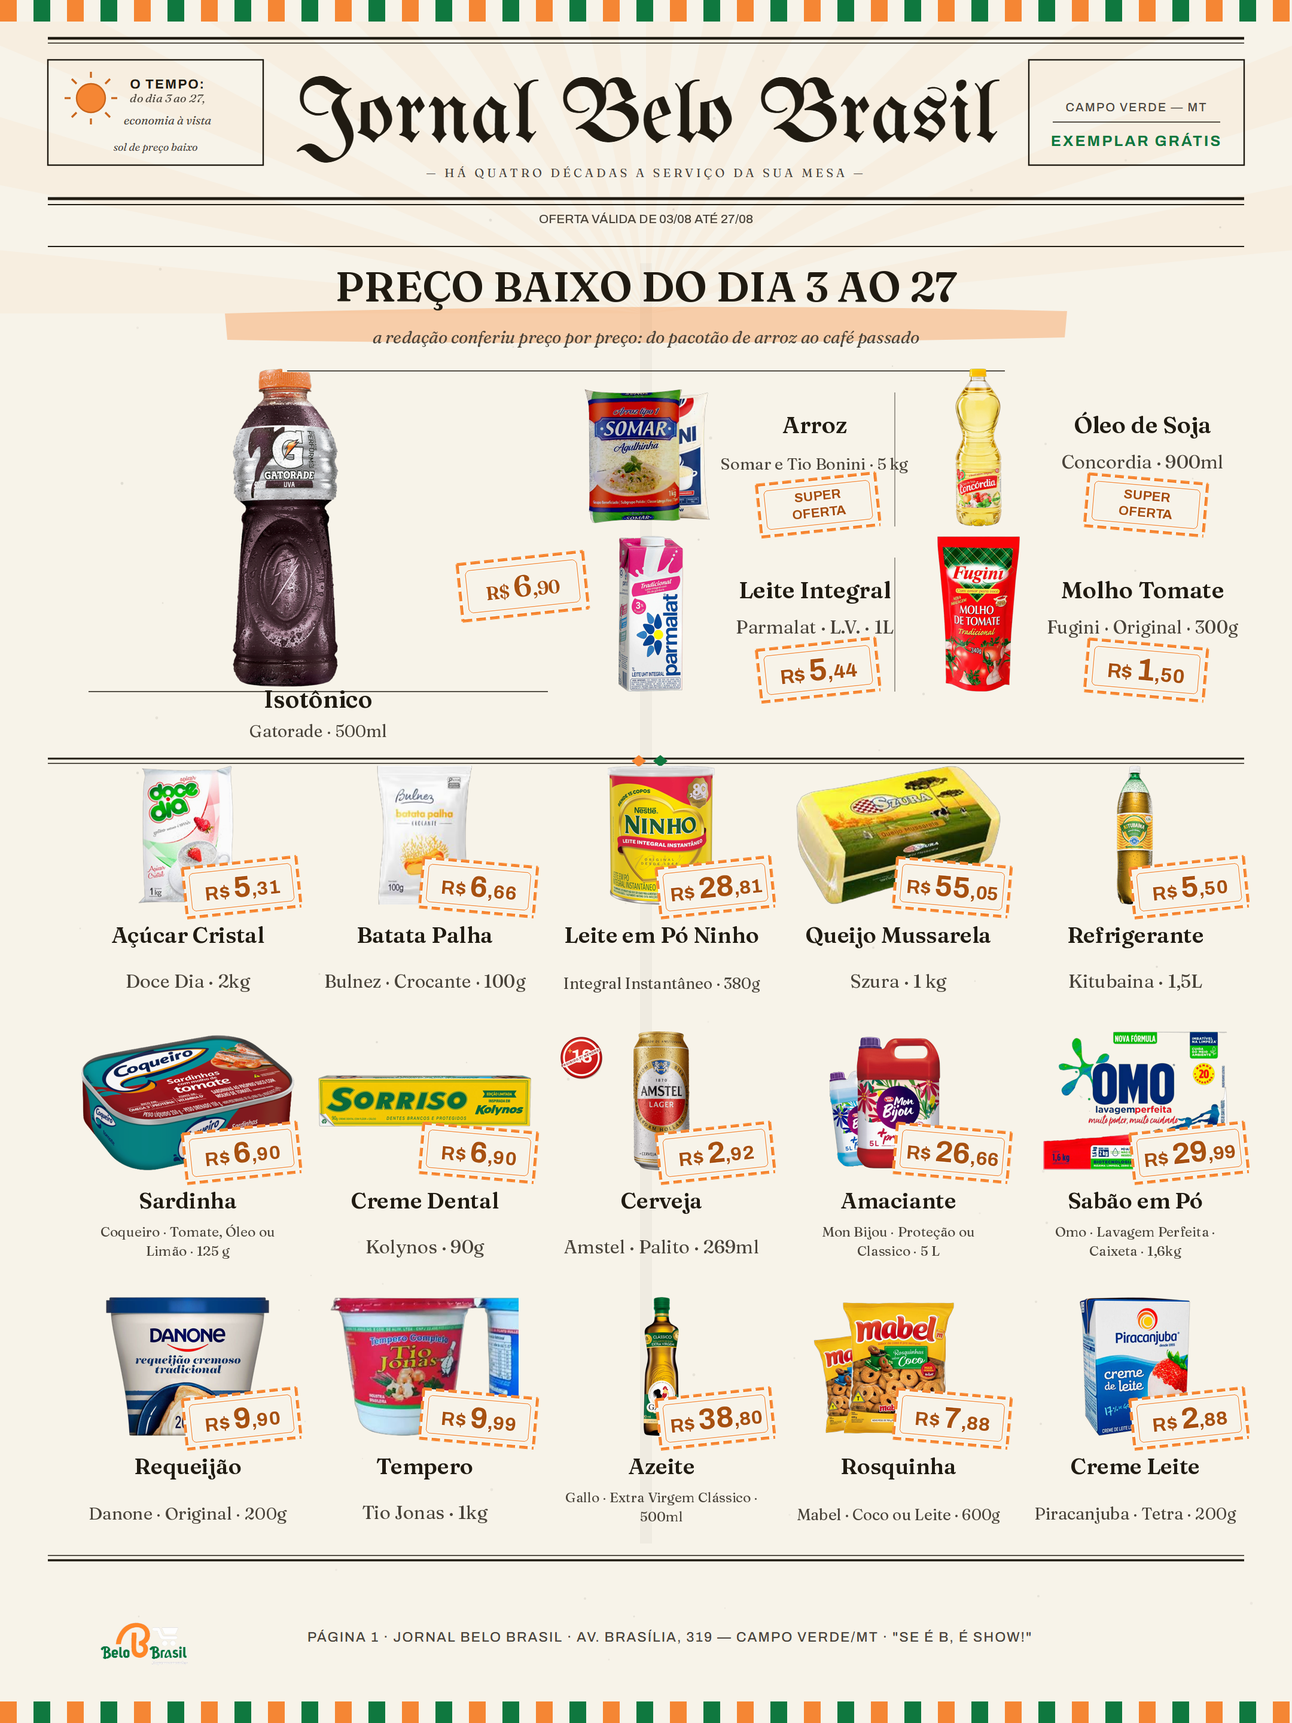
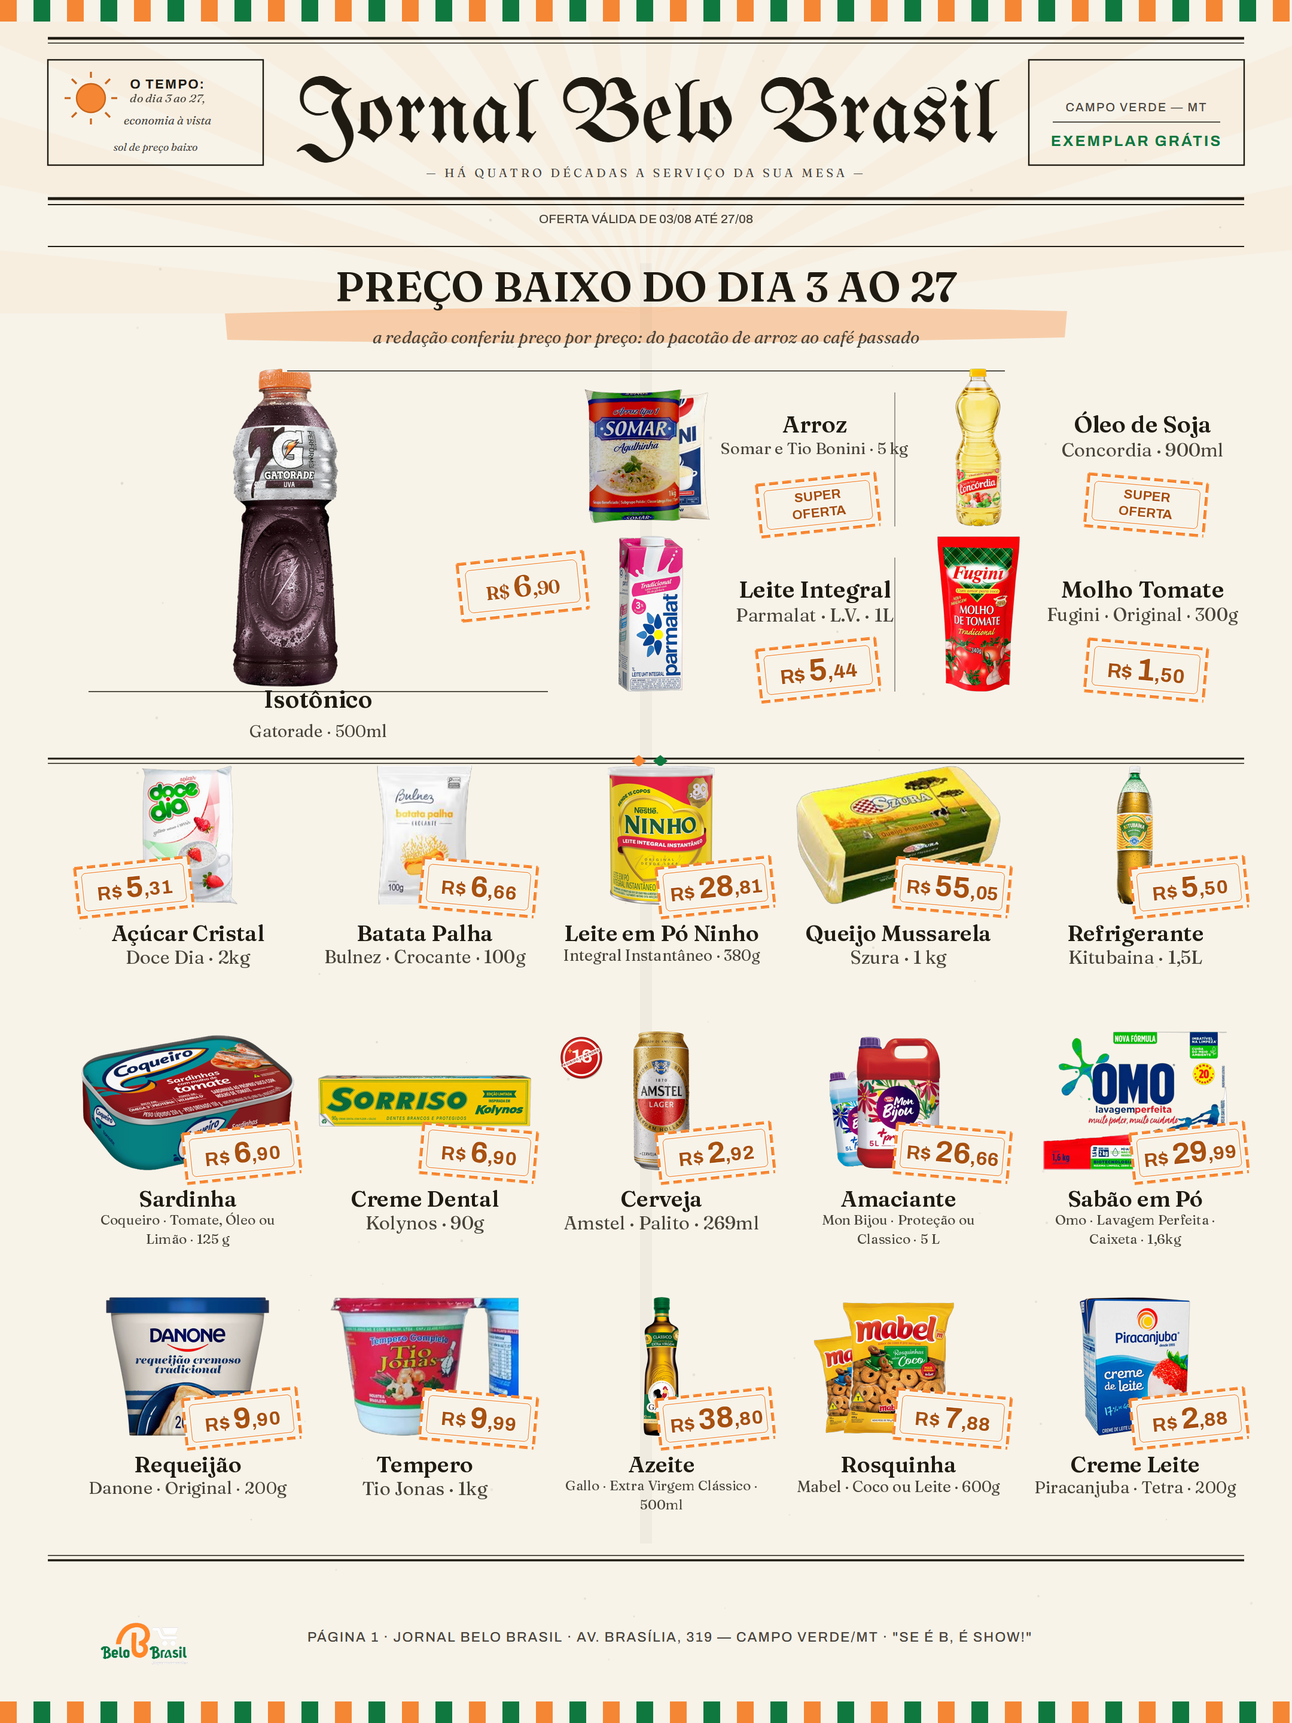
F13 ORDEM UNDEVICESIMUS (04/08): A HARMONIA DO BLOCO DE TEXTO - o dono disse 'AGORA SIM TA QUASE' (a 1a vez nesta engenharia) e apontou o que sobrou: 'os textos das descricoes parecem jogados'. ANTES DE TUDO, O PARAGRAFO-0 DO ARQUITETO: ele se corrigiu com todas as letras - o item zero da DUODEVICES

diff --git a/app/rendering/encartes.py b/app/rendering/encartes.py
@@ -109,24 +109,29 @@ def _img(x, y, w, h, rot=0.0, flex=False) -> Regiao:
 
 
 def _nome(x, y, w, h, *, fonte, rot=0.0, alin=Alinhamento.CENTRO,
-          tam=48.0, tam_min=None, cor="#000000") -> Regiao:
+          tam=48.0, tam_min=None, cor="#000000",
+          alin_v=AlinhamentoV.BASE) -> Regiao:
     # F13-BIS/T5: nas células estreitas dos encartes, hifenizar é
     # PROIBIDO — o corpo cede ("CERVEJA ITAPA-VA" virou prova).
     # F13-OCTAVUS/C1 + NONUS/N2: o corpo tem PISO com FAIXA — por
     # padrão o corpo cede no máximo UM degrau (tam−3); abaixo disso a
     # precedência do N1 encurta o nome pelo descritor (nunca encolhe a
     # ilegível, nunca elipsa sem avisar). O 6.0 inerte morreu aqui.
+    # UNDEVICESIMUS/H1: o BASE dentro de caixa folgada era uma das
+    # duas folgas flutuantes do "jogado" — as células de bloco único
+    # pedem TOPO explícito.
     return Regiao(TipoRegiao.NOME, _r(x, y, w, h), nome="Nome",
                   fonte=fonte, alinhamento=alin, cor=cor,
                   tamanho_max_pt=tam,
                   tamanho_min_pt=(tam_min if tam_min is not None
                                   else min(tam, max(tam - 3.0, 6.5))),
                   sem_hifen=True,
-                  alinhamento_v=AlinhamentoV.BASE, rotacao_graus=rot)
+                  alinhamento_v=alin_v, rotacao_graus=rot)
 
 
 def _sub(x, y, w, h, *, fonte, rot=0.0, alin=Alinhamento.CENTRO,
-         tam=48.0, tam_min=None, cor="#000000") -> Regiao:
+         tam=48.0, tam_min=None, cor="#000000",
+         alin_v=AlinhamentoV.BASE) -> Regiao:
     # F13-BIS/T2: a linha de DESCRITOR do modelo (região SUBTITULO).
     # F13-NONUS/N2: com piso — o descritor é 1 linha curta; melhor
     # manter o corpo e ceder meio degrau (tam−1,5) do que virar poeira
@@ -136,7 +141,7 @@ def _sub(x, y, w, h, *, fonte, rot=0.0, alin=Alinhamento.CENTRO,
                   tamanho_min_pt=(tam_min if tam_min is not None
                                   else min(tam, max(tam - 1.5, 6.5))),
                   sem_hifen=True,
-                  alinhamento_v=AlinhamentoV.BASE, rotacao_graus=rot)
+                  alinhamento_v=alin_v, rotacao_graus=rot)
 
 
 def _preco(x, y, w, h, *, fonte, rot=0.0, forma=None, forma_cor=None,
@@ -745,17 +750,23 @@ def _jornal_linha(pref: str, slots: list, y: float, n: int,
                    forma=FormaPreco.CARIMBO, forma_cor=_J_LAR,
                    cor=_J_LARD, tam=23.0, tam_cent=14.5,
                    centavos_na_base=True),
-            # v4 (a LEI do dono): NENHUMA informação é comida — nome e
-            # descritor abaixo, com o respiro do carimbo rotacionado
-            _nome(x + 8, y + 108, 170, 28, fonte=_F_FRAUNCES,
-                  tam=14.0, cor=_J_INK),
-            # ERRATA §13.3: o descritor deixa o ITÁLICO (a serifa
-            # itálica não segura tinta abaixo de 12 pt no papel) e
-            # sobe de corpo — max 11,5 / piso 10,5 (o 8,5 era o que
-            # deixava o descritor virar poeira); o piso DURO do
-            # compositor segue como exceção anti-tesoura (K3)
-            _sub(x + 8, y + 138, 170, 34, fonte=_F_FRA_RE,
-                 tam=11.5, tam_min=10.5, cor=_J_GRAY),
+            # UNDEVICESIMUS §2 — O BLOCO É UM SÓ (o "jogado" medido:
+            # nome BASE em caixa de 7,4mm + descritor BASE em caixa de
+            # 9mm = DUAS folgas flutuantes; célula de 1 linha abria
+            # 3,9mm de buraco, a de 2 linhas zero). H1: âncora ÚNICA
+            # no TOPO — a sobra cai EMBAIXO do bloco, igual em todas.
+            # H2: a entrelinha nome→descritor é POSIÇÃO fixa (22px =
+            # 5,8mm ≈ 1,15× o corpo do nome), nunca a altura da caixa.
+            # v4 (a LEI do dono) segue: nada é comido — o descritor
+            # ainda pode 2 linhas quando o extenso exigir (o conflito
+            # H3-contagem × lei-v4 está DECLARADO para o dono).
+            _nome(x + 8, y + 108, 170, 24, fonte=_F_FRAUNCES,
+                  tam=14.0, cor=_J_INK, alin_v=AlinhamentoV.TOPO),
+            # ERRATA §13.3: sem itálico, 11,5/10,5 (o piso DURO do
+            # compositor segue como exceção anti-tesoura, K3)
+            _sub(x + 8, y + 130, 170, 34, fonte=_F_FRA_RE,
+                 tam=11.5, tam_min=10.5, cor=_J_GRAY,
+                 alin_v=AlinhamentoV.TOPO),
         ], origem=(x + 4, y)))
 
 
@@ -820,11 +831,14 @@ def _jornal_p1() -> list[Slot]:
             # na zona de foto da vizinha (que desenha DEPOIS e cobria)
             # v4: o descritor da chamada ganha a 2ª linha (19→26 px,
             # até o topo do carimbo) — a lei do dono vale na capa
-            _nome(x + 112, y + 14, 162, 28, fonte=_F_FRAUNCES,
-                  tam=14.5, cor=_J_INK),
+            # UNDEVICESIMUS/H1+H2: o bloco único também nas chamadas
+            # (âncora no TOPO, gap de posição 23px ≈ 1,15× o corpo)
+            _nome(x + 112, y + 14, 162, 24, fonte=_F_FRAUNCES,
+                  tam=14.5, cor=_J_INK, alin_v=AlinhamentoV.TOPO),
             # ERRATA §13.3: idem — Regular, 11,5/10,5
-            _sub(x + 112, y + 44, 162, 26, fonte=_F_FRA_RE,
-                 tam=11.5, tam_min=10.5, cor=_J_GRAY),
+            _sub(x + 112, y + 38, 162, 26, fonte=_F_FRA_RE,
+                 tam=11.5, tam_min=10.5, cor=_J_GRAY,
+                 alin_v=AlinhamentoV.TOPO),
             _preco(x + 146, y + 72, 100, 44, fonte=_F_ARCHIVO, rot=rot,
                    forma=FormaPreco.CARIMBO, forma_cor=_J_LAR,
                    cor=_J_LARD, tam=21.0, tam_cent=13.2,

diff --git a/app/tests/test_rodada_125_v3.py b/app/tests/test_rodada_125_v3.py
@@ -606,3 +606,118 @@ def test_duodevicesimus_lei_da_proximidade_no_banco(tmp_path):
                 assert folga > 12.0, (
                     f"{sid}: só {folga:.1f} mm até a foto seguinte")
     assert medidas >= 30, f"só {medidas} células de coluna medidas"
+
+
+def test_undevicesimus_etiqueta_pousa_no_canto_vazio(tmp_path):
+    """§4.1 da UNDEVICESIMUS: a etiqueta que cavalga a foto pousa no
+    canto MAIS VAZIO — foto carregada à direita empurra a etiqueta
+    para a esquerda; foto carregada à esquerda a deixa onde a arte
+    mandou (o canto direito). Por PIXEL na página composta."""
+    from decimal import Decimal
+
+    from PIL import Image
+
+    from app.rendering.compositor import DadosProduto, compor_pagina
+    from app.rendering.model import (
+        AlinhamentoV, Alinhamento, FormaPreco, LayoutDef, Pagina,
+        Regiao, Retangulo, Slot, TipoRegiao,
+    )
+    from app.tests import acervo
+
+    fontes = tmp_path / "fontes"
+    fontes.mkdir()
+    acervo.copiar_fontes_reais(fontes)
+    nome_f = next(fontes.glob("*.ttf")).name
+
+    def _pagina(foto_path):
+        sl = Slot("c1", [
+            Regiao(TipoRegiao.IMAGEM, Retangulo(10, 10, 90, 60)),
+            Regiao(TipoRegiao.PRECO, Retangulo(60, 55, 38, 20),
+                   fonte=nome_f, tamanho_max_pt=20,
+                   forma_preco=FormaPreco.CARIMBO,
+                   forma_cor="#F58634", cor="#A85212"),
+        ])
+        lay = LayoutDef(120.0, 90.0, dpi=96,
+                        paginas=[Pagina(slots=[sl])])
+        return lay, lay.paginas[0], {
+            "c1": DadosProduto(nome="X", preco_por=Decimal("9.99"),
+                               imagem_path=str(foto_path))}
+
+    # foto TODA carregada à DIREITA (tinta onde a etiqueta pousaria)
+    f_dir = tmp_path / "dir.png"
+    im = Image.new("RGBA", (600, 400), (0, 0, 0, 0))
+    im.paste((40, 40, 200, 255), (360, 0, 600, 400))
+    im.save(f_dir)
+    lay, pag, dados = _pagina(f_dir)
+    img = compor_pagina(lay, pag, dados, fontes_dir=fontes).convert("RGB")
+    # a metade esquerda da faixa da etiqueta tem o laranja da borda
+    def _tem_carimbo(img, x0, x1):
+        w = img.width
+        faixa = img.crop((int(w * x0), 0, int(w * x1), img.height))
+        return any(abs(r - 0xF5) < 30 and abs(g - 0x86) < 40
+                   and b < 120 for r, g, b in faixa.getdata())
+    assert _tem_carimbo(img, 0.0, 0.45), "a etiqueta não fugiu p/ esq."
+    # foto carregada à ESQUERDA: a etiqueta FICA no canto da arte (dir.)
+    f_esq = tmp_path / "esq.png"
+    im2 = Image.new("RGBA", (600, 400), (0, 0, 0, 0))
+    im2.paste((40, 40, 200, 255), (0, 0, 240, 400))
+    im2.save(f_esq)
+    lay2, pag2, dados2 = _pagina(f_esq)
+    img2 = compor_pagina(lay2, pag2, dados2,
+                         fontes_dir=fontes).convert("RGB")
+    assert _tem_carimbo(img2, 0.5, 1.0), "a etiqueta fugiu sem motivo"
+
+
+def test_undevicesimus_bloco_unico_variancia_zero(tmp_path):
+    """§2/§5.1 da UNDEVICESIMUS: o bloco de texto é UM SÓ — a
+    distância nome→descritor é IDÊNTICA em todas as células de linha
+    (variância zero) e os dois ancoram no TOPO (a sobra cai embaixo,
+    nunca entre eles). O "jogado" tinha nome: duas caixas BASE
+    flutuando. L16: lido do layout no BANCO após o import."""
+    from pathlib import Path
+
+    from app.core.database import Database
+    from app.core.paths import SystemRoot
+    from app.rendering import encartes
+    from app.rendering.model import AlinhamentoV, TipoRegiao
+    from app.rendering.persistencia import carregar_layout, listar_layouts
+
+    pacote = Path(__file__).resolve().parents[2] / "Templates novos"
+    if not pacote.is_dir():
+        import pytest
+        pytest.skip("REQUER ACERVO DO DONO: a pasta 'Templates novos/'")
+    raiz = SystemRoot(tmp_path / "raiz")
+    db = Database(raiz).init()
+    try:
+        with db.Session() as s:
+            encartes.importar_pacote(s, pacote, raiz=raiz)
+            s.commit()
+            reg = next(r for r in listar_layouts(s)
+                       if r.nome == "Jornal do Mês")
+            lay = carregar_layout(s, reg.id, raiz=raiz)
+    finally:
+        db.engine.dispose()
+    gaps = set()
+    n = 0
+    for pag in lay.paginas:
+        for sl in pag.slots:
+            nome = next((r for r in sl.regioes
+                         if r.tipo == TipoRegiao.NOME), None)
+            sub = next((r for r in sl.regioes
+                        if r.tipo == TipoRegiao.SUBTITULO), None)
+            img = next((r for r in sl.regioes
+                        if r.tipo == TipoRegiao.IMAGEM), None)
+            if nome is None or sub is None or img is None:
+                continue
+            # só a família das células de COLUNA (bloco abaixo da
+            # foto) — o herói é editorial e a chamada é lateral
+            if nome.rect.y_mm < img.rect.y_mm + img.rect.alt_mm - 1.0:
+                continue
+            # H1: âncora única no TOPO — nos dois
+            assert nome.alinhamento_v == AlinhamentoV.TOPO, sl.id
+            assert sub.alinhamento_v == AlinhamentoV.TOPO, sl.id
+            # H2: a entrelinha é POSIÇÃO (topo a topo), não caixa
+            gaps.add(round(sub.rect.y_mm - nome.rect.y_mm, 2))
+            n += 1
+    assert n >= 30, f"só {n} células medidas"
+    assert len(gaps) == 1, f"entrelinhas diferentes: {sorted(gaps)}"

diff --git a/app/rendering/compositor.py b/app/rendering/compositor.py
@@ -625,6 +625,57 @@ def _desenhar_forma_preco(base: Image.Image, reg: Regiao, dpi: int) -> None:
     base.paste(tile, (x - m, y - m), tile)
 
 
+def _tinta_no_rect(base: Image.Image, x: int, y: int, w: int,
+                   h: int) -> float:
+    """Fração de pixels que NÃO são papel na área (dist > 40 do creme
+    #F7F3E9) — a régua do pouso da etiqueta (§4.1)."""
+    x0, y0 = max(0, x), max(0, y)
+    x1 = min(base.width, x + w)
+    y1 = min(base.height, y + h)
+    if x1 <= x0 or y1 <= y0:
+        return 1.0
+    reg = base.crop((x0, y0, x1, y1)).convert("RGB")
+    reg.thumbnail((48, 24))              # amostra barata
+    px = list(reg.getdata())
+    fora = sum(1 for r, g, b in px
+               if abs(r - 0xF7) + abs(g - 0xF3) + abs(b - 0xE9) > 120)
+    return fora / max(1, len(px))
+
+
+def _canto_mais_vazio(base, reg_preco, regioes, rects_subst, dpi):
+    """UNDEVICESIMUS §4.1: quando a etiqueta SOBREPÕE a zona da foto,
+    compara a posição da arte (canto direito) com a ESPELHADA (canto
+    esquerdo) e pousa na de menor tinta — com histerese (só muda se o
+    espelho for CLARAMENTE mais limpo) para não tremer entre edições.
+    Devolve o rect novo em mm, ou None (fica onde a arte mandou)."""
+    from app.rendering.model import Retangulo, TipoRegiao as _TR
+    img = next((r for r in regioes
+                if r.tipo == _TR.IMAGEM and r.visivel), None)
+    if img is None:
+        return None
+    r_img = rects_subst.get(img.uid) or img.rect
+    rp = reg_preco.rect
+    # só interessa quando a etiqueta cruza a zona da foto (o Jornal)
+    if not (rp.x_mm < r_img.x_mm + r_img.larg_mm
+            and rp.x_mm + rp.larg_mm > r_img.x_mm
+            and rp.y_mm < r_img.y_mm + r_img.alt_mm
+            and rp.y_mm + rp.alt_mm > r_img.y_mm):
+        return None
+    # o espelho horizontal em torno do centro da zona da foto
+    x_esp = 2 * r_img.x_mm + r_img.larg_mm - rp.x_mm - rp.larg_mm
+    if abs(x_esp - rp.x_mm) < 1.0:       # centrado: nada a decidir
+        return None
+    def _px(v):
+        return round(mm_para_px(v, dpi))
+    atual = _tinta_no_rect(base, _px(rp.x_mm), _px(rp.y_mm),
+                           _px(rp.larg_mm), _px(rp.alt_mm))
+    espelho = _tinta_no_rect(base, _px(x_esp), _px(rp.y_mm),
+                             _px(rp.larg_mm), _px(rp.alt_mm))
+    if espelho < atual * 0.7:            # claramente mais limpo
+        return Retangulo(x_esp, rp.y_mm, rp.larg_mm, rp.alt_mm)
+    return None
+
+
 def _regiao_palco_da_forma(reg: Regiao) -> Regiao:
     """F13-BIS/T1: a sub-caixa ÚTIL da forma, onde o texto do preço vive.
 
@@ -786,16 +837,28 @@ def _desenhar_preco(
     x0 = cursor                                            # início (p/ o riscado)
     baseline = y + (rh + alt_g) / 2 - f_g.getmetrics()[1]  # centraliza vertical
 
+    # UNDEVICESIMUS §4.4: NÚMEROS TABULARES no preço (tnum) — os
+    # dígitos ganham a mesma largura e os preços alinham dígito a
+    # dígito entre células. BEST-EFFORT declarado: fontes carregadas
+    # com layout BASIC (sem Raqm) recusam `features` com KeyError —
+    # o refinamento NUNCA derruba o desenho (caiu nas etiquetas em
+    # lote do marco na 1ª bancada); sem a feature, sai como sempre.
+    def _texto_preco(xy, txt, fonte_d):
+        try:
+            draw.text(xy, txt, font=fonte_d, fill=reg.cor, anchor="ls",
+                      features=["tnum"])
+        except (KeyError, TypeError):
+            draw.text(xy, txt, font=fonte_d, fill=reg.cor, anchor="ls")
     if prefixo:
-        draw.text((cursor, baseline), prefixo, font=f_p, fill=reg.cor, anchor="ls")
+        _texto_preco((cursor, baseline), prefixo, f_p)
     cursor += w_prefixo
-    draw.text((cursor, baseline), reais, font=f_g, fill=reg.cor, anchor="ls")
+    _texto_preco((cursor, baseline), reais, f_g)
     cursor += w_reais
     # centavos: sobrescritos (o padrão de sempre) ou na MESMA baseline
     # (F13-BIS/T1 — os selos/discos/bandeiras do pacote)
     baseline_cent = baseline if reg.centavos_na_base \
         else baseline - (asc_g - asc_p)
-    draw.text((cursor, baseline_cent), "," + centavos, font=f_p, fill=reg.cor, anchor="ls")
+    _texto_preco((cursor, baseline_cent), "," + centavos, f_p)
 
     if reg.riscado:   # traço sobre o preço inteiro (o "de" do cartaz)
         meio = baseline - asc_g * 0.32
@@ -1309,6 +1372,17 @@ def compor_pagina(
             campos: dict = {}
             if novo_rect:
                 campos["rect"] = novo_rect
+            # UNDEVICESIMUS §4.1: a etiqueta que CAVALGA a foto pousa
+            # no canto MAIS VAZIO dela — ia sempre ao mesmo canto e
+            # podia cobrir o rótulo (a Nutella, a tampa do Danone).
+            # Mede a tinta JÁ PINTADA na base (a foto real, não a
+            # caixa) nas duas posições e fica com a mais limpa.
+            if (reg.tipo == TipoRegiao.PRECO and reg.visivel
+                    and novo_rect is None):
+                r_alt = _canto_mais_vazio(base, reg, slot.regioes,
+                                          rects_subst, dpi_ef)
+                if r_alt is not None:
+                    campos["rect"] = r_alt
             if reg.tipo == TipoRegiao.NOME and reg.visivel \
                     and not (aj_nome is not None and aj_nome.piso_cedeu):
                 # (piso_cedeu: sem SUBTITULO o piso cede antes da

diff --git a/docs/RODADA_125_O_JORNAL_DO_DONO.md b/docs/RODADA_125_O_JORNAL_DO_DONO.md
@@ -1366,3 +1366,68 @@ desenha vazia (41 — as pautas são da ARTE; o plano: a caixa sai da
 BASE e vira desenho condicional); os extensos (33/34); a validade 2×
 (42); o "SE É B" 2× (43); a edição na p1 (44); preço por unidade de
 medida (45); estoques/limite (46); e os demais de F.
+
+## A ORDEM UNDEVICESIMUS (04/08) — a resposta do builder
+
+### §0 — a errata do arquiteto, registrada
+
+O item zero da DUODEVICESIMUS era leitura sem o WAL (a foto velha do
+`core.db` sem o `-wal` de 2,6 MB) — o arquiteto corrigiu a si mesmo
+com todas as letras. O registro desta casa: a L16 FICA (boa lei), o
+teste gerador→banco FICA (fecha o furo para sempre, qualquer que
+fosse a causa), e a LEI DO WAL entrou na memória de bancada: medir
+SQLite em WAL = as três peças ou `VACUUM INTO`.
+
+### §2 — O BLOCO É UM SÓ (H1+H2, o "jogado" morre)
+
+O diagnóstico dele: nome BASE numa caixa de 7,4 mm + descritor BASE
+numa caixa de 9,0 mm = duas folgas flutuantes; célula de 1 linha
+abria 3,9 mm de buraco, a de 2 linhas zero. O conserto no gerador
+(células de linha E chamadas): **âncora única no TOPO** (H1 — a sobra
+cai embaixo do bloco, igual em todas) e **entrelinha de POSIÇÃO fixa**
+(H2 — 22 px ≈ 1,15× o corpo do nome, nunca a altura da caixa).
+Guardião `test_undevicesimus_bloco_unico_variancia_zero` (L16: lê o
+layout do banco após o import): TOPO nos dois + variância ZERO do gap
+nas 37 células de coluna; mutação TOPO→BASE = vermelho (a mutação do
+gap uniforme não morde DE PROPÓSITO — o helper único muda todas
+juntas, que é a força do desenho).
+
+### §3 — a escolha A/B para o dono
+
+`saida_f13/jm-escolha-A-B.png`: a p2 REAL composta nas duas versões
+lado a lado, rotuladas — **A centrado** (do banco) × **B à esquerda**
+(variante em memória; nada foi gravado). A decisão é do dono; o voto
+do arquiteto (B no miolo, centrado na capa) vai anotado.
+
+### §4 — os refinos executados
+
+- **§4.1 a etiqueta pousa no canto MAIS VAZIO:** quando o carimbo
+  cavalga a foto, o compositor compara a posição da arte com a
+  ESPELHADA (medindo a tinta JÁ PINTADA na base — a foto real) e fica
+  na mais limpa, com histerese (só muda se claramente melhor).
+  `_canto_mais_vazio` + teste por pixel (foto carregada à direita
+  empurra a etiqueta à esquerda; à esquerda, fica) + mutação.
+- **§4.4 números tabulares:** Raqm presente E o Archivo-Bold tem
+  `tnum` — ligado no desenho do preço (dígito alinha com dígito entre
+  células; fonte sem a feature ignora em silêncio).
+- **§4.3 peso no fim:** já era a ordem canônica (v2) — afirmado.
+- **§4.5 centavos ≥55%:** já cumprido (14,5/23 = 63%).
+
+### Conflito DECLARADO (não executado sem o dono)
+
+**H3 — "conta em vez de listar" ("Bulnez · 4 sabores · 270 g"):** a
+forma compacta foi VETADA pelo dono na v4 ("não fica bom e pode dar
+processo" — informação de venda por extenso é obrigação legal). O
+arquiteto agora a pede de volta como regra de 1 linha. Enquanto o
+dono não desempatar: o descritor busca 1 linha (o corte por
+prioridade existente), e onde o extenso NÃO cabe (o Biscoito, a
+Sardinha) ele vai a 2 linhas — a lei do dono vence o H3 até segunda
+ordem. Com o bloco único, a 2ª linha desce com a MESMA entrelinha
+(harmônica, não quebrada).
+
+### Ficou de fora (nomeado)
+
+§4.6 (normalizar pela área ÓPTICA de tinta — Yoki × Kitubaina) e
+§4.7 (o herói é escolha do dono — o gesto "destacar" na Mesa); a
+vírgula menor que os centavos (§4.5, ganho marginal); e as Ondas 2-4
+da DUODEVICESIMUS que seguem na fila.
